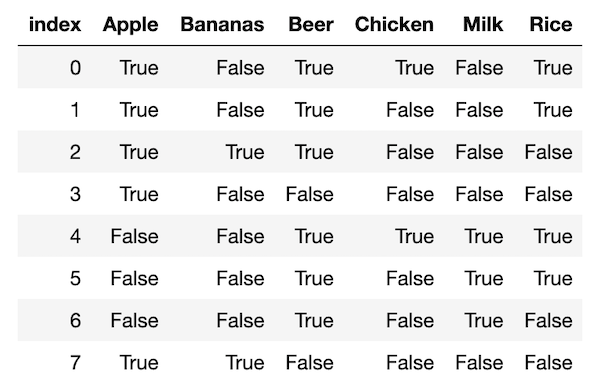
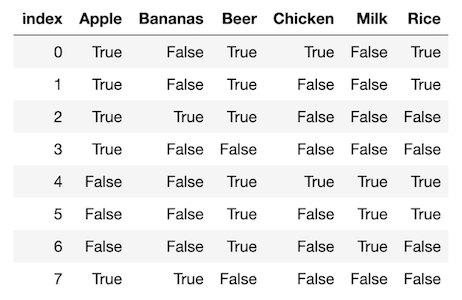
hello world

diff --git a/_posts/2020-07-08-Intro-Market-Basket-Analysis.md b/_posts/2020-07-08-Intro-Market-Basket-Analysis.md
@@ -23,7 +23,11 @@ Mining retail datasets like this is done to find a number of relations:
 - Trigger products: products which when bought, trigger other purchases
 - Common Baskets: combinations of products that are often bought together
 
-#### Step 1
+## Setting up Market Basket Analysis
+Let's now review the theory behind Market Basket Analysis and the steps needed to process a data.
+
+### Step 1: A list of transactions
+
 In order to run the market basket analysis, we must first start with a list of transactions: 
     
     Transaction 1: 'Apple', 'Beer', 'Rice', 'Chicken'
@@ -44,7 +48,8 @@ In order to run the market basket analysis, we must first start with a list of t
            ['Milk', 'Beer'], 
            ['Apple', 'Bananas']]
  
-#### Step 2:
+#### Step 2: Transaction Encoder
+
 Next use [TransactionEncoder](http://rasbt.github.io/mlxtend/user_guide/preprocessing/TransactionEncoder/) to transform the list of transactional items into dummy variables which is suitable for computating text data such as in Machine Learning and Statistical Analysis methods.
 
 ![Alternate image text](/images/Intro_MBA/dummytable.png)
